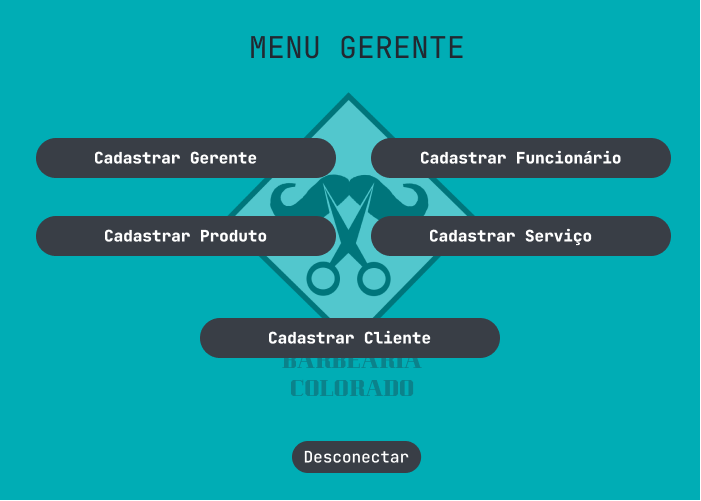
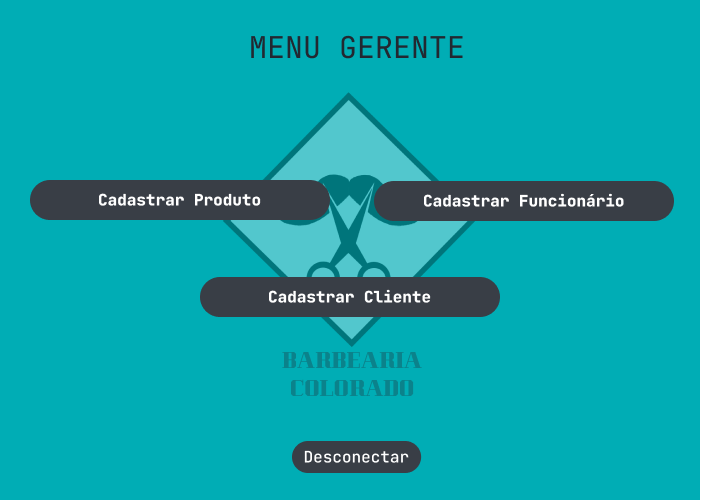
Apagado os botoes que nao serão mais necessaárioas no menu do gerente

Changed region(s): [[0.03, 0.2695, 0.4793, 0.509], [0.5093, 0.2695, 0.9586, 0.509], [0.2696, 0.5389, 0.719, 0.7186]]

diff --git a/BarbeariaColorado/src/telas/MenuGerente.java b/BarbeariaColorado/src/telas/MenuGerente.java
@@ -23,9 +23,7 @@ public class MenuGerente extends javax.swing.JFrame {
     private void initComponents() {
 
         jButton1 = new javax.swing.JButton();
-        botaoCadastrarGerente = new javax.swing.JButton();
         botaoCadastrarProduto = new javax.swing.JButton();
-        botaoCadastrarServico = new javax.swing.JButton();
         botaoCadastrarFuncionario = new javax.swing.JButton();
         botaoCadastrarCliente = new javax.swing.JButton();
         botaoDesconectar = new javax.swing.JButton();
@@ -36,16 +34,6 @@ public class MenuGerente extends javax.swing.JFrame {
         setDefaultCloseOperation(javax.swing.WindowConstants.EXIT_ON_CLOSE);
         getContentPane().setLayout(new org.netbeans.lib.awtextra.AbsoluteLayout());
 
-        botaoCadastrarGerente.setBorder(null);
-        botaoCadastrarGerente.setContentAreaFilled(false);
-        botaoCadastrarGerente.setCursor(new java.awt.Cursor(java.awt.Cursor.HAND_CURSOR));
-        botaoCadastrarGerente.addActionListener(new java.awt.event.ActionListener() {
-            public void actionPerformed(java.awt.event.ActionEvent evt) {
-                botaoCadastrarGerenteActionPerformed(evt);
-            }
-        });
-        getContentPane().add(botaoCadastrarGerente, new org.netbeans.lib.awtextra.AbsoluteConstraints(40, 130, 300, 30));
-
         botaoCadastrarProduto.setBorder(null);
         botaoCadastrarProduto.setContentAreaFilled(false);
         botaoCadastrarProduto.setCursor(new java.awt.Cursor(java.awt.Cursor.HAND_CURSOR));
@@ -54,12 +42,7 @@ public class MenuGerente extends javax.swing.JFrame {
                 botaoCadastrarProdutoActionPerformed(evt);
             }
         });
-        getContentPane().add(botaoCadastrarProduto, new org.netbeans.lib.awtextra.AbsoluteConstraints(50, 203, 290, 40));
-
-        botaoCadastrarServico.setBorder(null);
-        botaoCadastrarServico.setContentAreaFilled(false);
-        botaoCadastrarServico.setCursor(new java.awt.Cursor(java.awt.Cursor.HAND_CURSOR));
-        getContentPane().add(botaoCadastrarServico, new org.netbeans.lib.awtextra.AbsoluteConstraints(385, 203, 280, 40));
+        getContentPane().add(botaoCadastrarProduto, new org.netbeans.lib.awtextra.AbsoluteConstraints(40, 170, 290, 40));
 
         botaoCadastrarFuncionario.setBorder(null);
         botaoCadastrarFuncionario.setContentAreaFilled(false);
@@ -69,7 +52,7 @@ public class MenuGerente extends javax.swing.JFrame {
                 botaoCadastrarFuncionarioActionPerformed(evt);
             }
         });
-        getContentPane().add(botaoCadastrarFuncionario, new org.netbeans.lib.awtextra.AbsoluteConstraints(380, 123, 290, 40));
+        getContentPane().add(botaoCadastrarFuncionario, new org.netbeans.lib.awtextra.AbsoluteConstraints(390, 170, 290, 40));
 
         botaoCadastrarCliente.setBorder(null);
         botaoCadastrarCliente.setContentAreaFilled(false);
@@ -79,7 +62,7 @@ public class MenuGerente extends javax.swing.JFrame {
                 botaoCadastrarClienteActionPerformed(evt);
             }
         });
-        getContentPane().add(botaoCadastrarCliente, new org.netbeans.lib.awtextra.AbsoluteConstraints(210, 303, 290, 40));
+        getContentPane().add(botaoCadastrarCliente, new org.netbeans.lib.awtextra.AbsoluteConstraints(210, 270, 290, 40));
 
         botaoDesconectar.setBorder(null);
         botaoDesconectar.setContentAreaFilled(false);
@@ -97,10 +80,6 @@ public class MenuGerente extends javax.swing.JFrame {
 
         pack();
     }// </editor-fold>//GEN-END:initComponents
-
-    private void botaoCadastrarGerenteActionPerformed(java.awt.event.ActionEvent evt) {//GEN-FIRST:event_botaoCadastrarGerenteActionPerformed
-        // TODO add your handling code here:
-    }//GEN-LAST:event_botaoCadastrarGerenteActionPerformed
 
     private void botaoDesconectarActionPerformed(java.awt.event.ActionEvent evt) {//GEN-FIRST:event_botaoDesconectarActionPerformed
         // TODO add your handling code here:
@@ -164,9 +143,7 @@ public class MenuGerente extends javax.swing.JFrame {
     // Variables declaration - do not modify//GEN-BEGIN:variables
     private javax.swing.JButton botaoCadastrarCliente;
     private javax.swing.JButton botaoCadastrarFuncionario;
-    private javax.swing.JButton botaoCadastrarGerente;
     private javax.swing.JButton botaoCadastrarProduto;
-    private javax.swing.JButton botaoCadastrarServico;
     private javax.swing.JButton botaoDesconectar;
     private javax.swing.JButton jButton1;
     private javax.swing.JLabel menuGerente;
